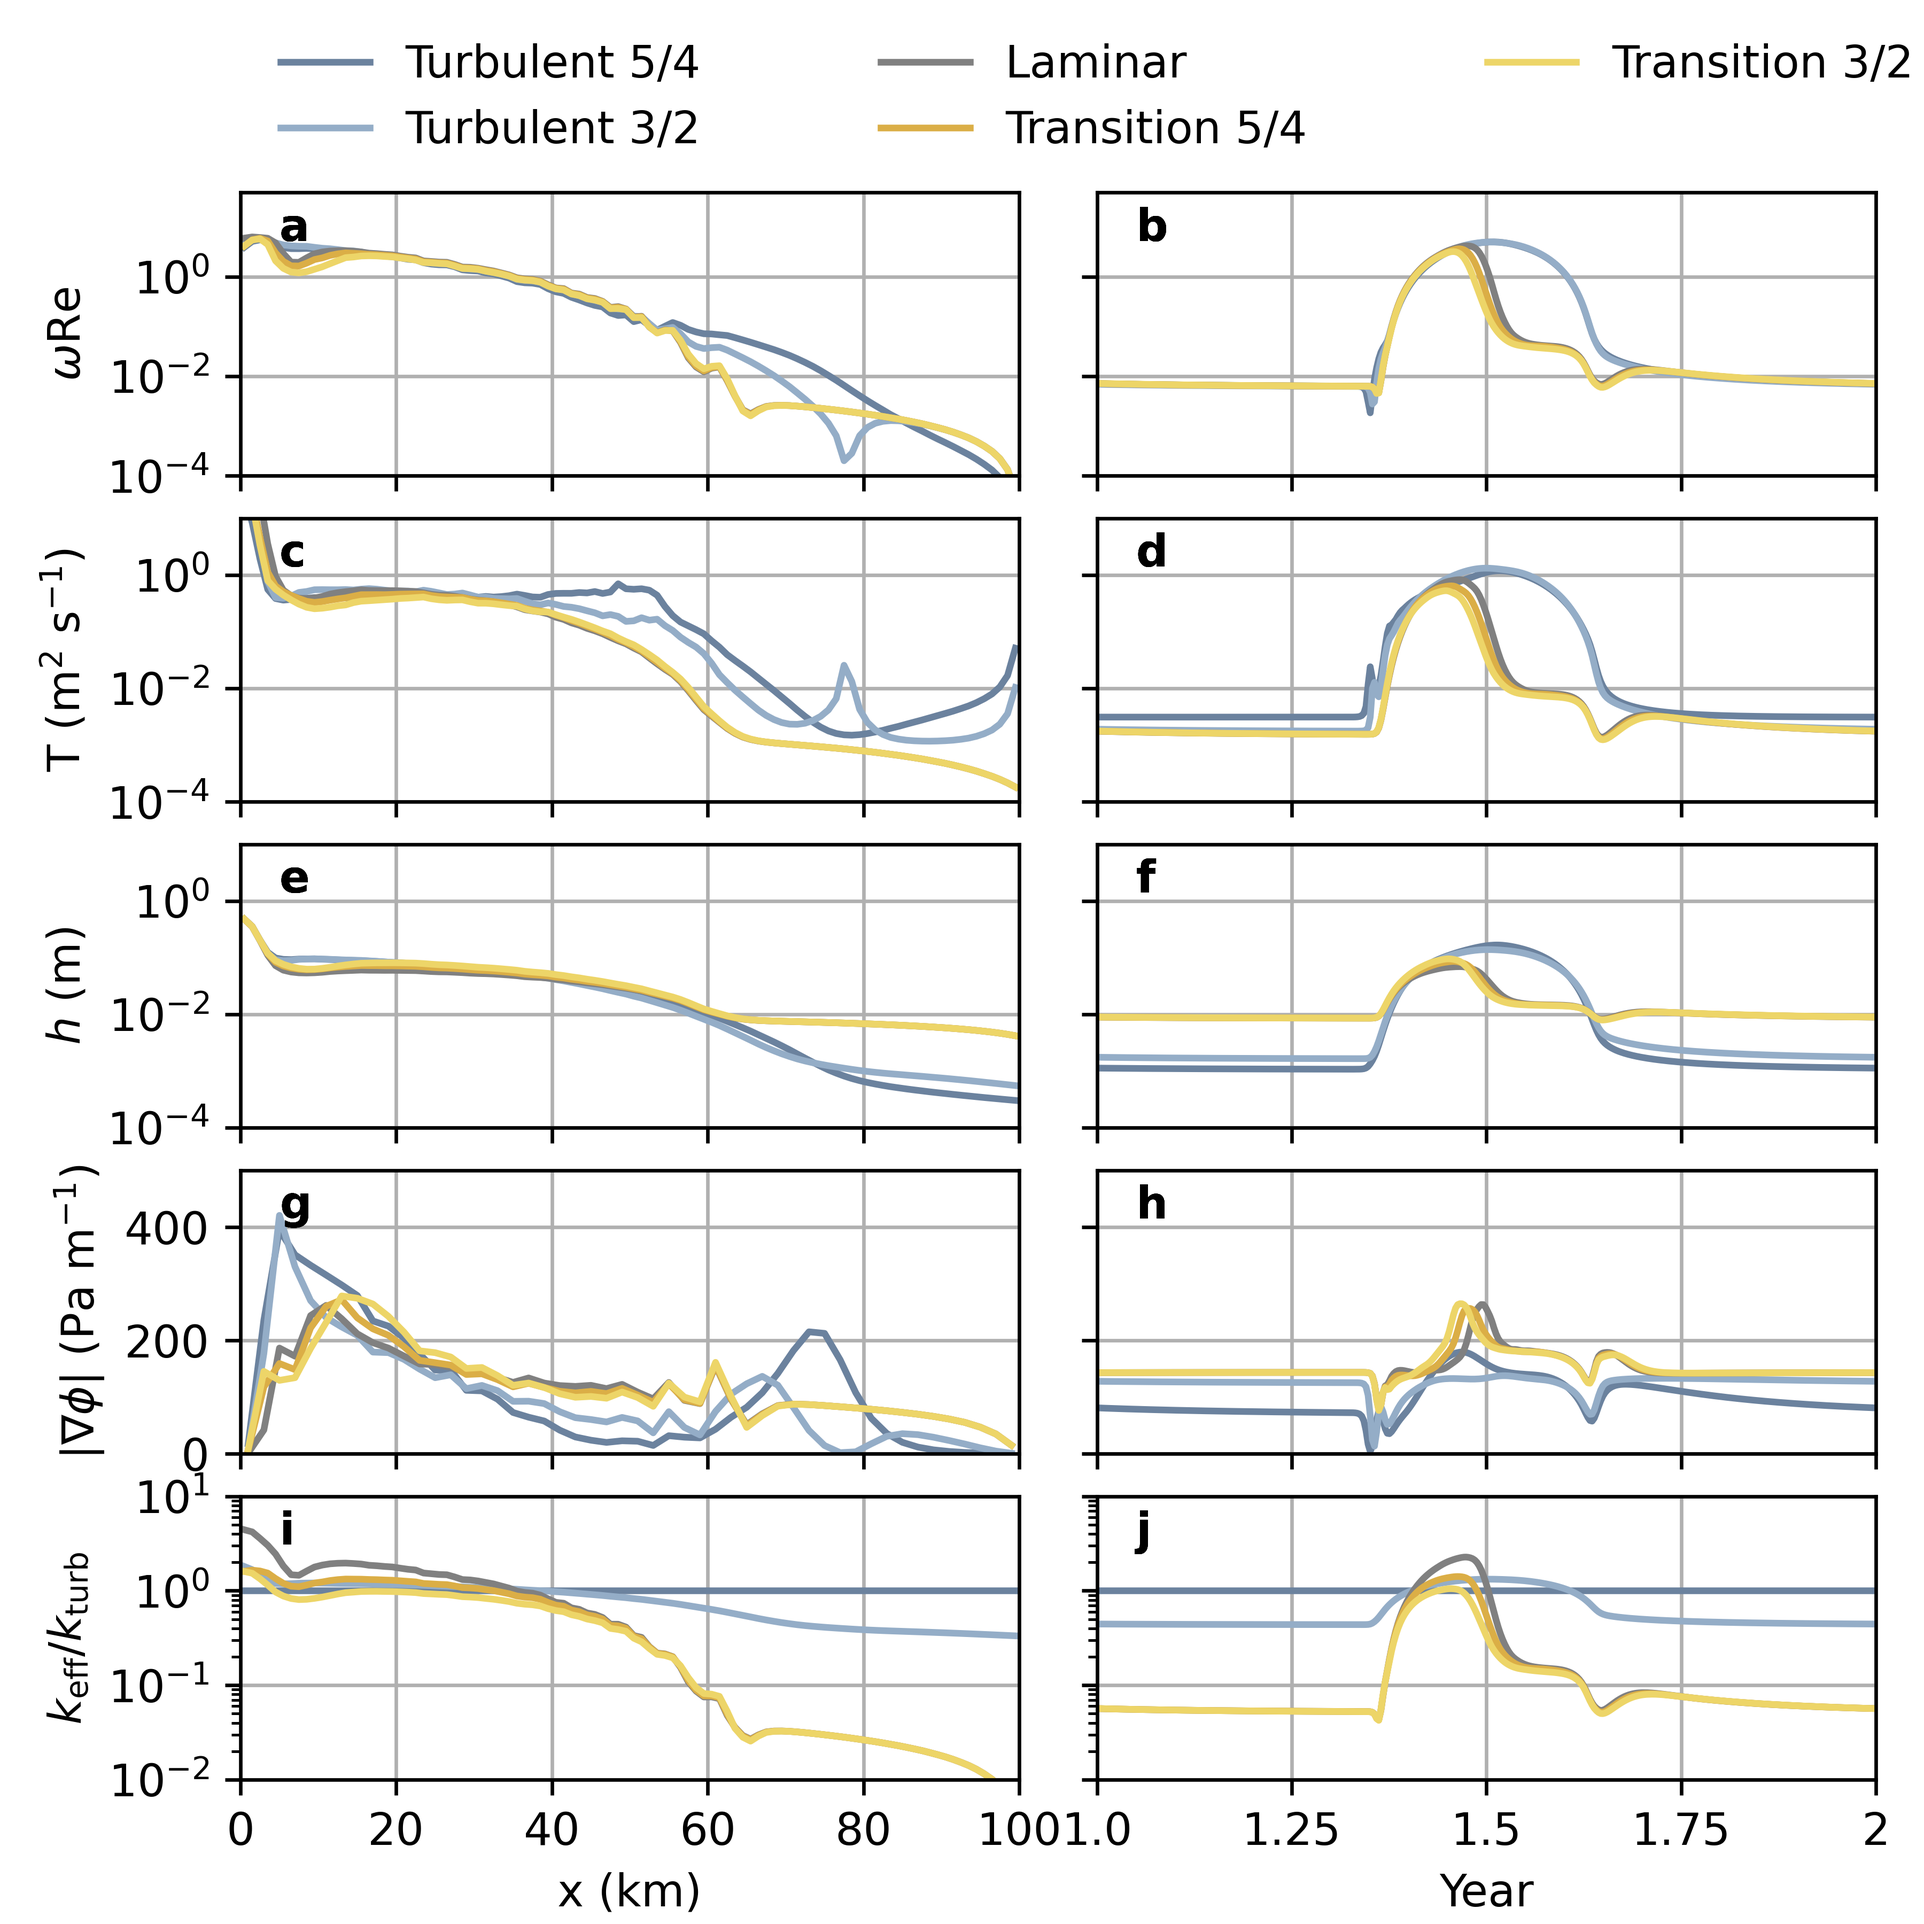
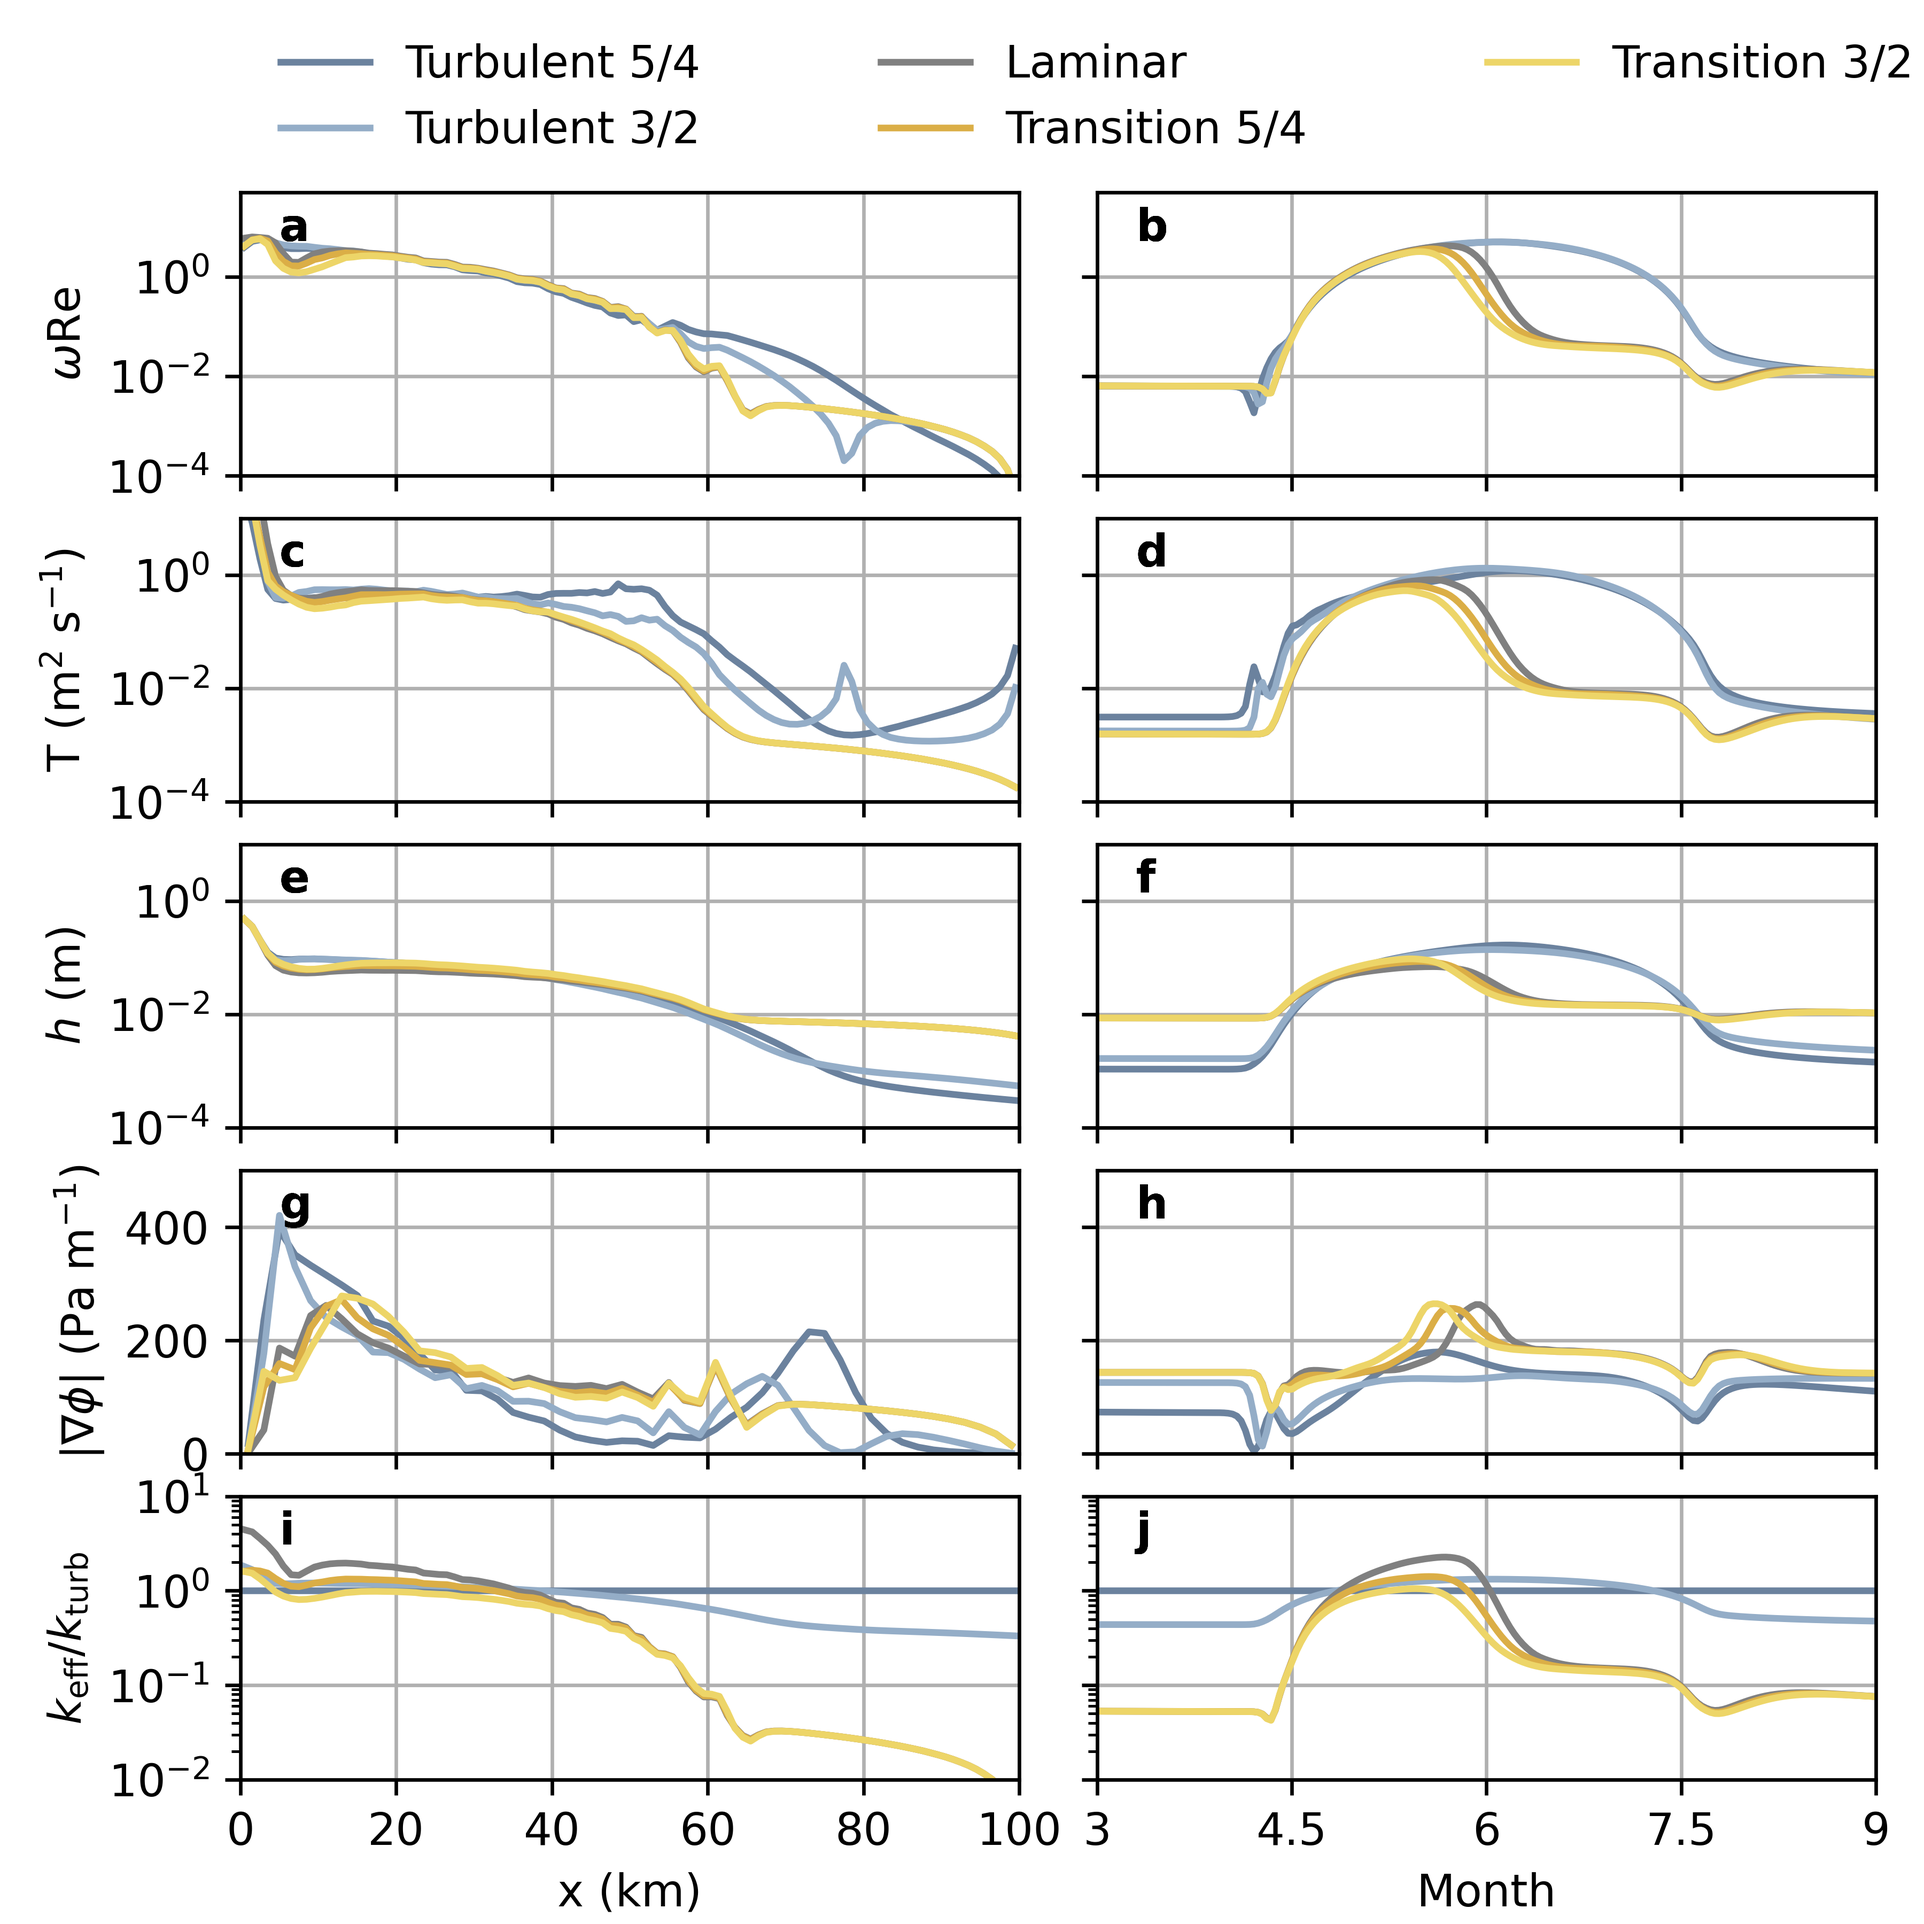
T limits

diff --git a/analysis/plot_mechanisms.py b/analysis/plot_mechanisms.py
@@ -20,7 +20,7 @@ figsize=(6, 6)
 def plot_mechanisms(fnames, figname, models, tslice=defaults.tslice, 
     x_band=defaults.x_bands[1], band_width=defaults.band_width, 
     figsize=figsize, labels=defaults.labels, 
-    colors=defaults.colors, tlim=[1, 2], t_ticks=[1.0, 1.25, 1.5, 1.75, 2],
+    colors=defaults.colors, tlim=[3, 9], t_ticks=[3, 4.5, 6, 7.5, 9],
     k_turb=1, rhow=1000, g=9.81, nu=1.79e-6, omega=1/1000):
     """Plot components of discharge parameterization to attribute differences.
 
@@ -111,7 +111,7 @@ def plot_mechanisms(fnames, figname, models, tslice=defaults.tslice,
         n_edges = connect_edge.shape[0]
 
         time = out['time'][:].data.T
-        tt = time/86400/365 - 100
+        tt = 12*(time/86400/365 - 101)
         n_time = len(time)
 
         ## Net sheet and channel flux
@@ -242,7 +242,7 @@ def plot_mechanisms(fnames, figname, models, tslice=defaults.tslice,
         ax2.set_yticks([1e-2, 1e-1, 1e0, 1e1])
 
     ax1.set_xlabel('x (km)')
-    ax2.set_xlabel('Year')
+    ax2.set_xlabel('Month')
 
     for ax in axs[:, 0]:
         ax.grid(True)
